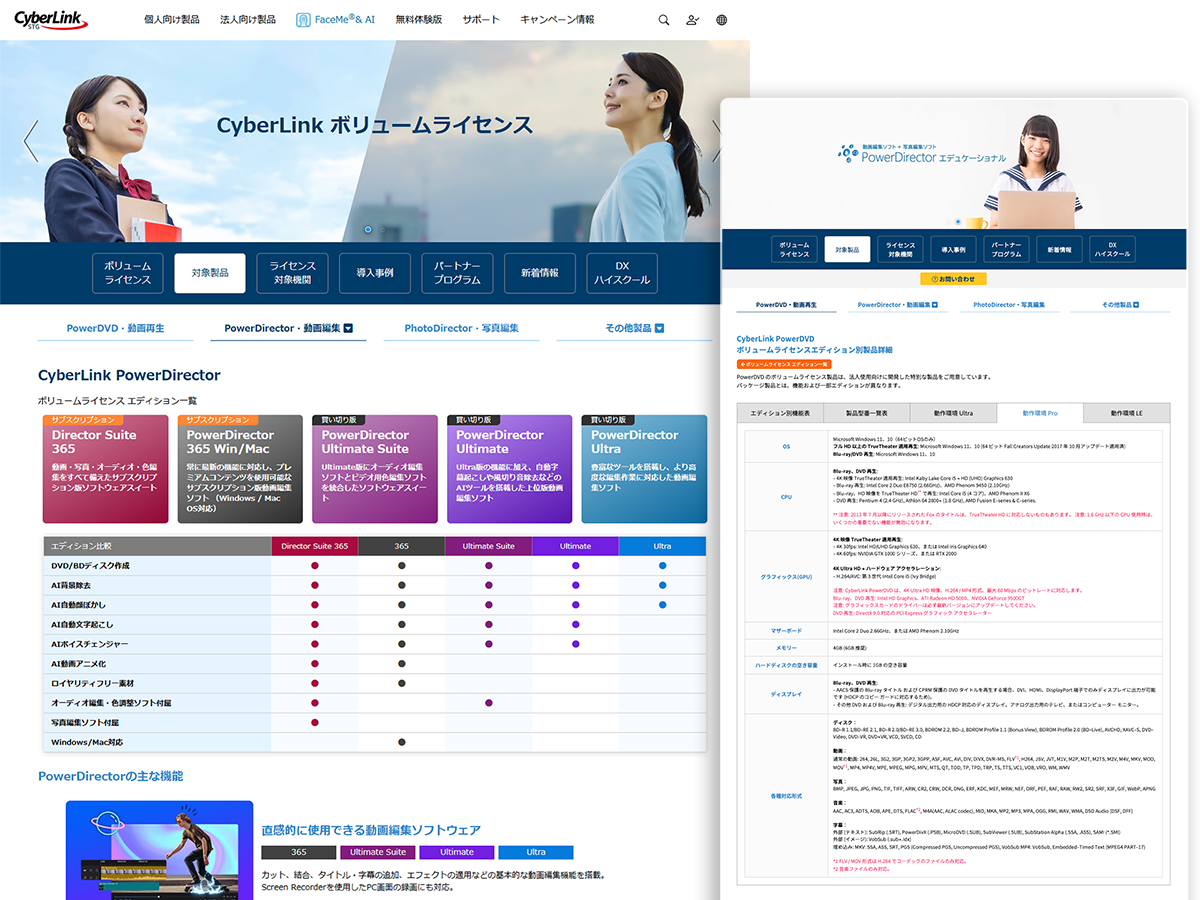
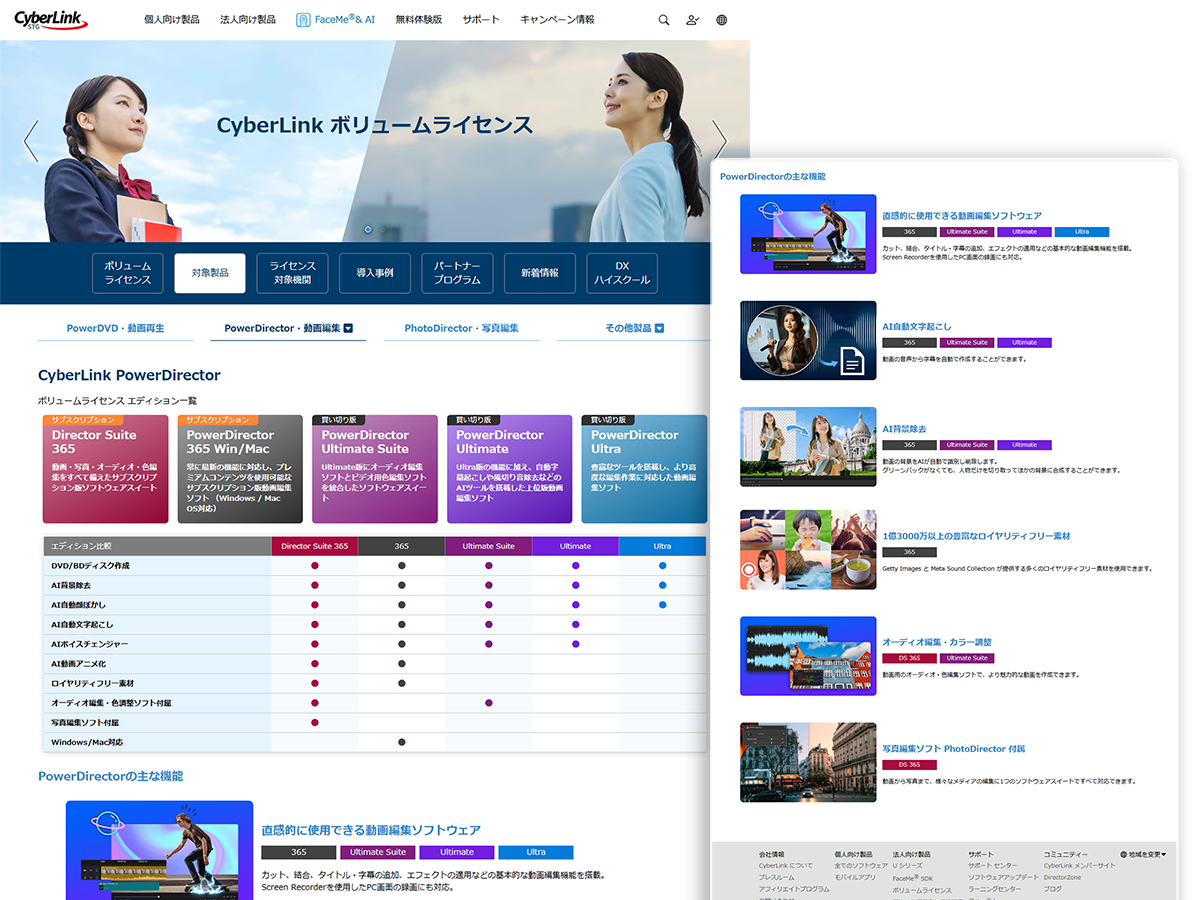
image update

Changed region(s): [[0.5858, 0.0933, 1.0, 1.0]]

diff --git a/index.htm b/index.htm
@@ -52,10 +52,7 @@ function scrollFunction() {
 
 </head>
 
-
-
 <body>
-
 	<div class="top-navbar" id="navbar">
 		<div class="cl-icon">
 			<!-- <img src="images/cl_logo-w.png" alt="" class="lazyload"/> -->
@@ -313,7 +310,7 @@ function scrollFunction() {
 	</ul>
   </div>
 
-<!--3-->	
+<!--4-->	
   <div class="two-column pdr-column pdr-center txt-align-l work-card">	
 	<ul class="ul-class">
 	  <li class="pdr-vid">
@@ -413,7 +410,18 @@ function scrollFunction() {
 		<!-- <div class="btn-area"><a href="" class="btn">Download for Free</a></div> -->
 	  </li>
   	  <li class="pdr-vid ">
-		<img class="lazyload" src="images/recent_projects/1200x720-vl.png" alt="" />
+				<div class="flexslider">
+          <ul class="slides">
+            <li>
+				<img src="images/recent_projects/1200x720-vl.png" /></li>
+			<li>
+  	    	    <img src="images/recent_projects/1200x720-vl-page.png" /></li>
+			<!-- <li>
+  	    	    <img src="images/recent_projects/1200x720-faceme-case2.png" /></li> -->
+  	    	<!-- <li>
+  	    	    <img src="images/recent_projects/1200x720-faceme-booth.png" /></li> -->
+          </ul>
+        </div>
 	  </li>	
 		
 	</ul>
